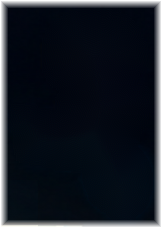
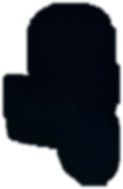
hero: keep video playing during CRT transition, only Cursor robot stops
- Drop the pause+seek to FREEZE_TIME; the background loop keeps animating.
- Add per-frame ROBOT_Y lookup (24fps, template-matched) so the cutout
  appears exactly where the bobbing video robot is, then eases to the
  canonical ROBOT box (p 0.02..0.11) before the pixel dissolve.
- Rebuild robot-patch.png as a feathered clean plate (temporal median of
  uncovered pixels) covering the robot's full bob envelope incl. flame;
  PATCH box -> 1095,100 123x189.
- Safety: resume the loop at p<=0.005 if it is paused.

diff --git a/src/app/components/hero/HeroCrtTransition.tsx b/src/app/components/hero/HeroCrtTransition.tsx
@@ -6,17 +6,43 @@ import { useEffect, useRef, type RefObject } from 'react';
  * All geometry is expressed in the 1280x720 video frame (hero.mp4 / hero.webm).
  * Values were measured by template-matching the cutout taken from
  * hero-final-nobeard.png (1670x941) against the video frames: the PNG maps to
- * the video at ~0.75 scale. The robot bobs between y=109..122 in the loop, so
- * the video is frozen at FREEZE_TIME (robot top at y=112) before the swap.
+ * the video at ~0.75 scale. The robot bobs between y=108..122 in the loop.
+ * The video keeps playing during the transition: only the Cursor robot is
+ * swapped for the static cutout, placed where the video robot is right now
+ * (ROBOT_Y lookup) and eased to the canonical ROBOT box before it dissolves.
  */
 export const VIDEO_W = 1280;
 export const VIDEO_H = 720;
+/** @deprecated the video no longer freezes; kept for reference. */
 export const FREEZE_TIME = 5.0;
+/** Video frame rate of hero.mp4 / hero.webm. */
+const VIDEO_FPS = 24;
+/**
+ * Cutout top-left y (video px) per video frame (24 fps, 239 frames), measured
+ * by masked template matching of robot-cursor.png against every frame of
+ * hero.mp4. x stays at ~1103 (+-0.25 px) for the whole loop.
+ */
+const ROBOT_Y = [119.9,120.2,120.7,121.1,121.4,121.5,121.4,121.1,120.3,119.9,119.7,119.4,119.0,118.6,118.0,117.3,116.8,116.0,115.2,114.5,113.8,113.3,112.7,112.1,112.0,111.9,112.4,113.6,115.0,116.7,118.5,120.3,121.8,121.6,121.2,120.9,120.4,119.8,119.1,118.6,117.9,117.2,116.3,115.5,114.8,114.0,113.3,112.6,112.0,111.5,110.9,110.3,109.8,109.4,108.9,108.7,108.4,108.3,108.3,108.3,108.4,108.8,109.2,109.7,110.5,111.1,111.9,112.7,113.6,114.3,115.0,115.7,116.5,117.2,117.9,118.5,119.0,119.6,120.1,120.7,121.1,121.3,121.3,121.3,121.2,121.0,120.9,120.8,120.6,120.2,119.8,119.3,118.8,118.0,117.4,116.7,116.0,115.4,114.7,113.8,113.1,112.4,111.7,111.1,110.7,110.2,109.7,109.3,108.9,108.6,108.3,108.2,108.3,108.3,108.5,108.8,109.2,109.5,110.1,110.9,110.1,109.5,109.2,108.8,108.5,108.3,108.3,108.2,108.3,108.6,108.9,109.3,109.7,110.2,110.7,111.1,111.7,112.4,113.1,113.9,114.7,115.4,116.0,116.7,117.4,118.0,118.8,119.3,119.8,120.2,120.6,120.8,120.9,121.0,121.2,121.3,121.3,121.3,121.1,120.7,120.1,119.6,119.0,118.5,117.9,117.2,116.5,115.7,115.0,114.3,113.6,112.7,111.9,111.1,110.5,109.7,109.2,108.8,108.4,108.3,108.3,108.3,108.4,108.7,108.9,109.4,109.8,110.3,110.9,111.4,112.0,112.6,113.3,114.0,114.8,115.5,116.3,117.2,117.9,118.6,119.1,119.8,120.4,120.9,121.2,121.6,121.8,120.3,118.5,116.7,115.0,113.6,112.4,111.8,111.9,112.1,112.7,113.3,113.8,114.5,115.2,116.0,116.8,117.3,118.0,118.6,119.0,119.4,119.7,119.9,120.3,121.1,121.4,121.5,121.4,121.1,120.7,120.2,119.9];
+/** Where the video robot's cutout box sits (y, video px) at time t seconds. */
+export const robotYAt = (t: number) => {
+  const n = ROBOT_Y.length;
+  if (!Number.isFinite(t) || t < 0) return ROBOT_Y[0];
+  const f = (t * VIDEO_FPS) % n;
+  const i = Math.floor(f);
+  const a = ROBOT_Y[i];
+  const b = ROBOT_Y[Math.min(n - 1, i + 1)];
+  return a + (b - a) * (f - i);
+};
 
 /** Robot cutout (public/hero/robot-cursor.png, 142x212 source px). */
 export const ROBOT = { x: 1103, y: 110.5, w: 106.5, h: 159, srcW: 142, srcH: 212 };
-/** Background patch (public/hero/robot-patch.png) that hides the video robot. */
-export const PATCH = { x: 1095.5, y: 103, w: 121.5, h: 171 };
+/**
+ * Background clean plate (public/hero/robot-patch.png, 123x189 at 1:1 video
+ * px, feathered alpha) that hides the moving video robot over its whole bob
+ * envelope (incl. thruster flame) while the video keeps playing underneath.
+ * Built from the temporal median of uncovered pixels across all frames.
+ */
+export const PATCH = { x: 1095, y: 100, w: 123, h: 189 };
 /** Inner CRT screen (the green terminal glass). */
 /** Claude (orange) robot: head point the hint bubble's tail aims at. */
 export const CLAUDE_HEAD = { x: 742, y: 104 };
@@ -100,7 +126,6 @@ export function useHeroCrtTransition(
     const r = refs;
     let particles: Particle[] = [];
     let raf = 0;
-    let frozen = false;
     let base = { vx: 0, vy: 0, vw: 0, vh: 0, W: 0, H: 0, cover: false, posY: 0.5, posX: 1 };
 
     // ---- particles from the cutout --------------------------------------
@@ -277,16 +302,11 @@ export function useHeroCrtTransition(
       const { reduceMotion, canPlay } = optsRef.current;
       const p = clamp01(optsRef.current.getProgress());
 
-      // freeze the loop so the robot sits exactly under the cutout
-      if (!reduceMotion) {
-        if (p > 0.005 && !frozen) {
-          frozen = true;
-          video.pause();
-          try { video.currentTime = FREEZE_TIME; } catch { /* not ready */ }
-        } else if (p <= 0.005 && frozen) {
-          frozen = false;
-          if (canPlay()) video.play()?.catch(() => {});
-        }
+      // The loop keeps playing through the transition (only the Cursor robot
+      // is swapped for the cutout). Safety net: back on the hero, make sure
+      // the loop is running.
+      if (!reduceMotion && p <= 0.005 && video.paused && canPlay() && video.readyState >= 2) {
+        video.play()?.catch(() => {});
       }
 
       const setOpacity = (el: HTMLElement | null, o: number) => {
@@ -339,6 +359,13 @@ export function useHeroCrtTransition(
       const d = range(p, 0.12, 0.45);
       setOpacity(r.patch.current, swapped ? 1 : 0);
       setOpacity(r.robot.current, swapped && d <= 0 ? 1 : 0);
+      // cutout starts exactly where the (still playing) video robot is, then
+      // eases to the canonical box the particles originate from
+      if (r.robot.current && swapped && d <= 0) {
+        const live = robotYAt(video.currentTime);
+        const y = live + (ROBOT.y - live) * easeInOut(range(p, 0.02, 0.11));
+        r.robot.current.style.top = pct(y, VIDEO_H);
+      }
 
       // 4) dolly into the CRT screen
       const z = easeInOut(range(p, 0.42, 0.86));
